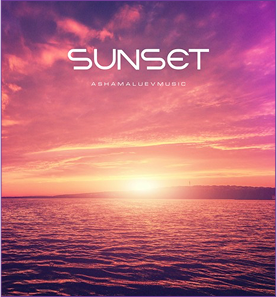
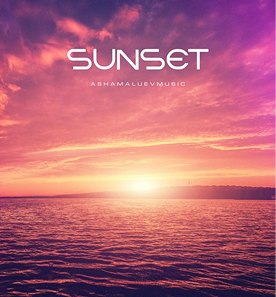
update01

diff --git a/src/app/globals.css b/src/app/globals.css
@@ -1362,7 +1362,11 @@ mix-blend-mode: darken;
   position: relative;
   padding-bottom: 100%;
   overflow: hidden;
-  border-radius: 10px;
+  border-radius: 16px;
+}
+
+.frst_cart .album_cart .album_img {
+  border: 1px solid #713C96;
 }
 
 .album_cart .album_img img {
@@ -1373,6 +1377,7 @@ mix-blend-mode: darken;
   min-width: 100%;
   max-width: 100%;
   max-height: 100%;
+  object-fit: cover;
 }
 
 .album_cart_content .cart_text h4 {

diff --git a/src/app/page.js b/src/app/page.js
@@ -172,7 +172,7 @@ export default function Home() {
             </button>
           </div>
 
-          <div className="album_cart_sec">
+          <div className="album_cart_sec frst_cart">
             {albums.map((album, i) => (
               <motion.div
                 key={i}
